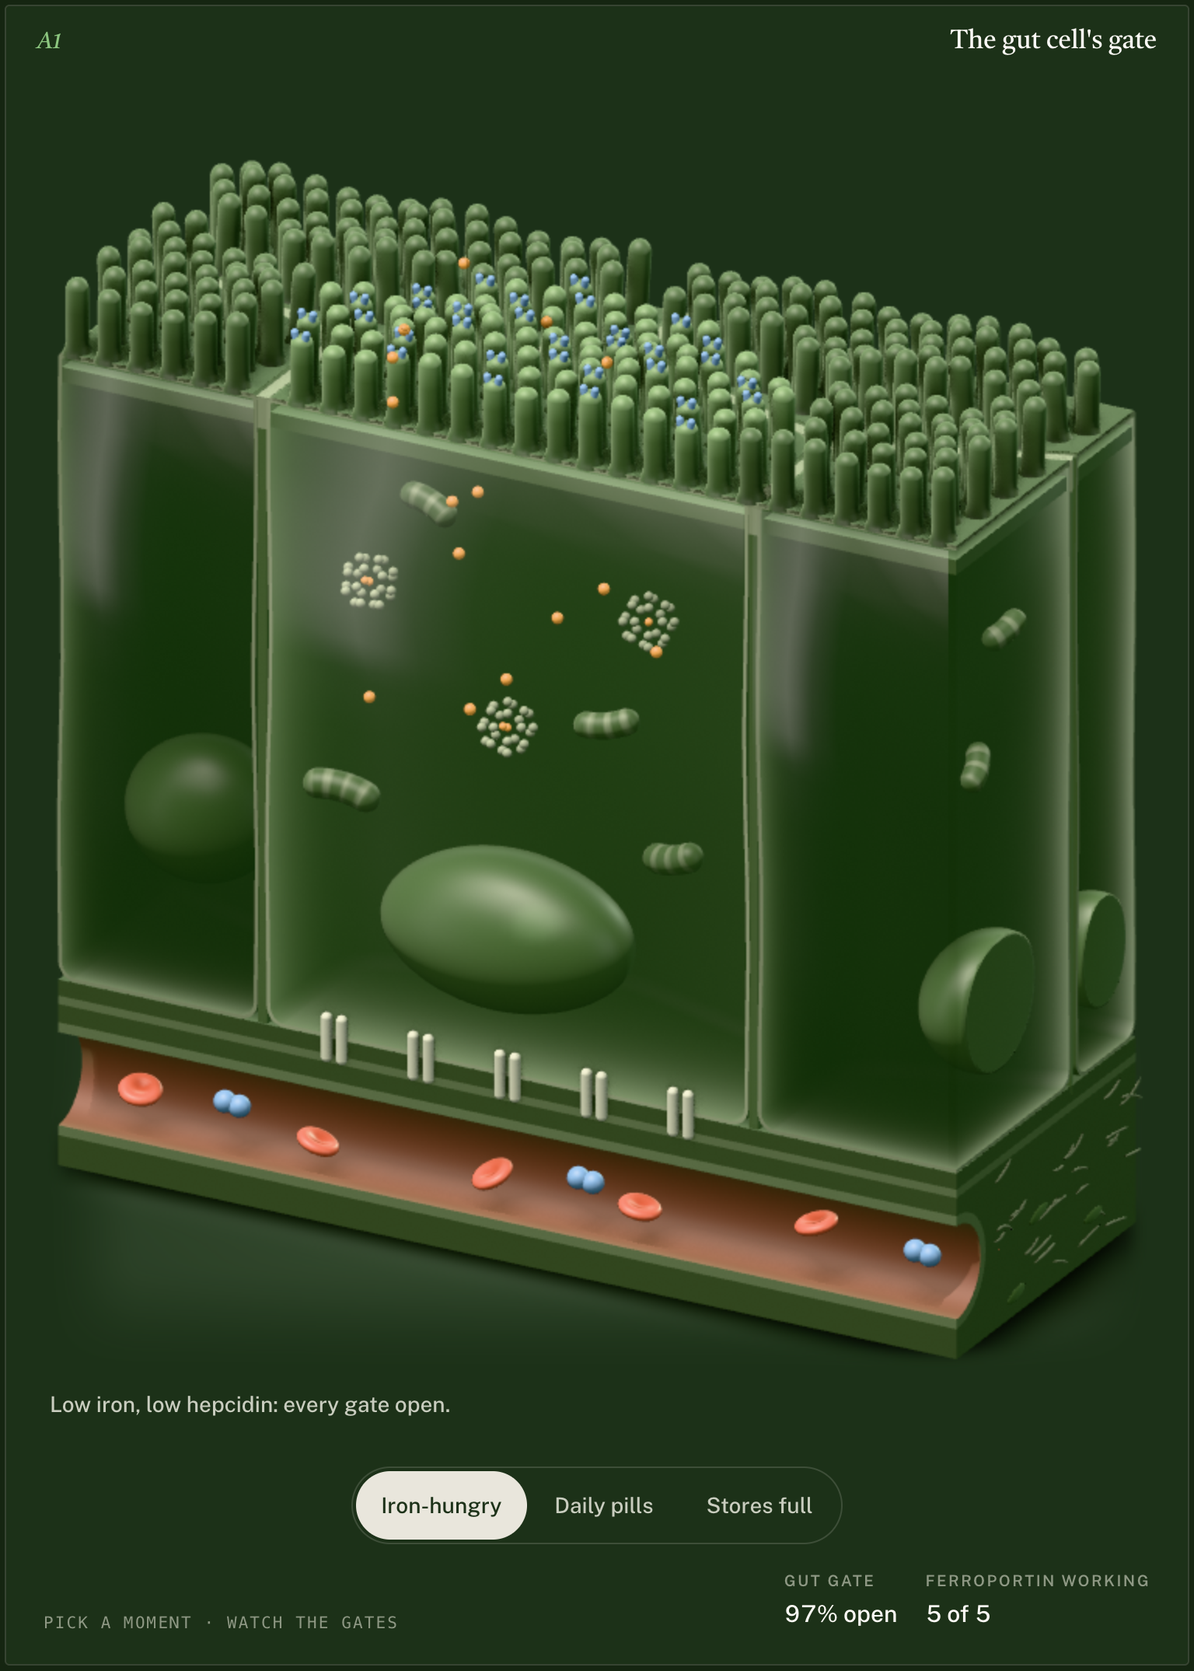
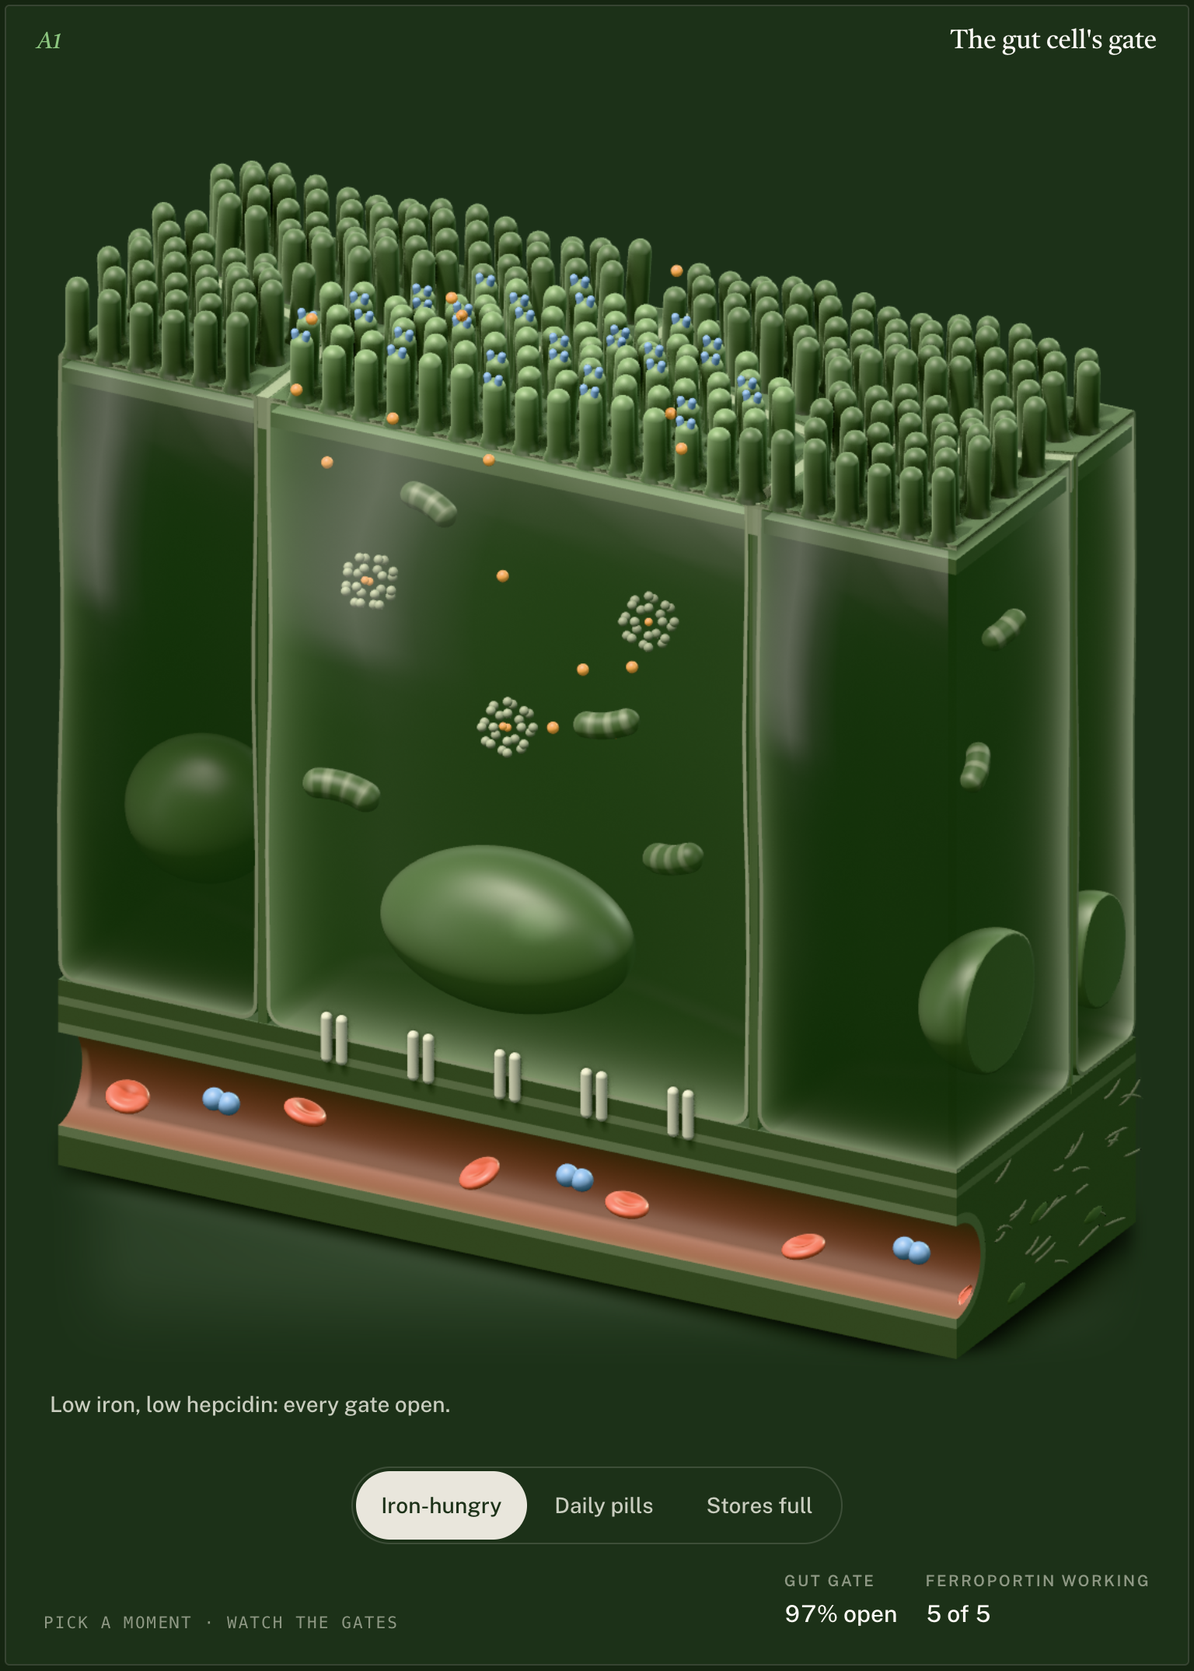
A1: more presence on Cream
On Cream the gel is the block's mid tone, deepening toward the base and
the end face, with a firmer membrane line and a firmer floor shadow; the
nucleus, mitochondria, ferritin cages and iron are lit against something
deeper; each microvillus has a toned shaft, a light tip and a shaded side.
Every colour is still one of the figure's inks or a blend of two. Forest
night, the model, numbers and words are unchanged.

diff --git a/figures/a1-gut-cell/gl-scene.js b/figures/a1-gut-cell/gl-scene.js
@@ -73,44 +73,74 @@ function a1Scene(ctx, DATA, pal) {
   };
   const K = {};
   for (const k of Object.keys(FALL)) K[k.replace(/^[ab]1-/, "").replace(/-/g, "_")] = ink(k);
-  // Rendered surfaces are lit, so the inks sit a little deeper than the flat fills (a lit cream reads as the drawing's cream).
-  const TONE = night ? 1.5 : 0.86;
-  const C = {
-    gel: gain(rich(K.cell, night ? 1 : 1.45), night ? 1.25 : 0.87),
-    gelDim: gain(rich(K.cell_dim, night ? 1 : 1.2), night ? 1.25 : 0.84),
-    wall: gain(blend(K.cell_2, K.lateral, 0.5), night ? 1.4 : 0.74),
-    wallDim: gain(blend(K.cell_dim, K.lateral, 0.6), night ? 1.3 : 0.72),
-    rim: gain(blend(K.membrane, K.cell, night ? 0.25 : 0.22), night ? 1.3 : 0.9),
-    rimDim: gain(blend(K.membrane, K.cell_dim, night ? 0.4 : 0.36), night ? 1.2 : 0.9),
-    lateral: gain(K.lateral, night ? 1.1 : 0.84),
-    junction: gain(blend(K.membrane, K.lateral, night ? 0.3 : 0.12), night ? 1.1 : 0.92),
-    top: gain(K.top, TONE),
-    topMain: gain(K.top_main, TONE),
-    web: gain(blend(K.cell_2, K.lateral, night ? 0.45 : 0.75), night ? 1.5 : 0.72),
-    webDim: gain(blend(K.cell_dim, K.lateral, night ? 0.5 : 0.7), night ? 1.35 : 0.72),
-    villusTip: gain(K.tip, night ? 1.7 : 0.86),
-    villus: gain(rich(K.v1, night ? 1 : 1.15), night ? 1.6 : 0.8),
-    villusRoot: gain(K.v2, night ? 1.5 : 0.72),
-    villusDim: gain(K.villus_dim, night ? 1.5 : 0.8),
-    nucleus: gain(rich(K.nucleus, night ? 1 : 1.3), night ? 1.5 : 0.68),
-    nucleolus: gain(K.nucleolus, night ? 1.5 : 0.5),
-    mito: gain(rich(blend(K.mito, K.nucleolus, night ? 0 : 0.55), night ? 1 : 1.35), night ? 1.55 : 0.68),
-    mitoBand: gain(blend(K.mito, K.membrane, 0.6), night ? 1.4 : 0.62),
-    ferritin: gain(K.ferritin, night ? 1.15 : 0.8),
-    tissue: gain(K.tissue, night ? 1.35 : 0.9),
-    lamina: gain(K.endo, night ? 1.3 : 0.86),
-    collagen: gain(blend(K.tissue, K.membrane, 0.5), night ? 1.3 : 0.9),
-    endo: gain(K.endo, night ? 1.4 : 0.9),
-    blood: gain(blend(K.blood, K.rbc, night ? 0.1 : 0.07), night ? 1.5 : 0.92),
-    iron: K.iron.clone(),
-    hep: K.hep.clone(),
-    fpn: K.fpn.clone(),
-    dmt1: K.dmt1.clone(),
-    tf: K.tf.clone(),
-    rbc: K.rbc.clone(),
-    rbcIn: K.rbc_in.clone(),
-    sheen: night ? new T.Color("#bfe0b4") : new T.Color("#fff1e2"),
-  };
+  // Rendered surfaces are lit, so the inks are re-toned per theme. Forest night: the dark fills lifted so light can
+  // model them. Cream: the gel is the mid tone of the block (the drawing's own deeper inks: top, lateral, membrane),
+  // so the block has a silhouette on the cream page and what floats in it is lit against something deeper, as it is
+  // in Forest night. Every colour is still one of the figure's inks, or a blend of two.
+  const C = night
+    ? {
+        gel: gain(K.cell, 1.25),
+        gelDim: gain(K.cell_dim, 1.25),
+        wall: gain(blend(K.cell_2, K.lateral, 0.5), 1.4),
+        wallDim: gain(blend(K.cell_dim, K.lateral, 0.6), 1.3),
+        rim: gain(blend(K.membrane, K.cell, 0.25), 1.3),
+        rimDim: gain(blend(K.membrane, K.cell_dim, 0.4), 1.2),
+        lateral: gain(K.lateral, 1.1),
+        junction: gain(blend(K.membrane, K.lateral, 0.3), 1.1),
+        top: gain(K.top, 1.5),
+        topMain: gain(K.top_main, 1.5),
+        web: gain(blend(K.cell_2, K.lateral, 0.45), 1.5),
+        webDim: gain(blend(K.cell_dim, K.lateral, 0.5), 1.35),
+        villusTip: gain(K.tip, 1.7),
+        villus: gain(K.v1, 1.6),
+        villusRoot: gain(K.v2, 1.5),
+        villusDim: gain(K.villus_dim, 1.5),
+        nucleus: gain(K.nucleus, 1.5),
+        nucleolus: gain(K.nucleolus, 1.5),
+        mito: gain(K.mito, 1.55),
+        mitoBand: gain(blend(K.mito, K.membrane, 0.6), 1.4),
+        ferritin: gain(K.ferritin, 1.15),
+        tissue: gain(K.tissue, 1.35),
+        lamina: gain(K.endo, 1.3),
+        collagen: gain(blend(K.tissue, K.membrane, 0.5), 1.3),
+        endo: gain(K.endo, 1.4),
+        blood: gain(blend(K.blood, K.rbc, 0.1), 1.5),
+        seat: gain(blend(K.membrane, K.cell, 0.45), 1.2),
+        iron: K.iron.clone(),
+        sheen: new T.Color("#bfe0b4"),
+      }
+    : {
+        gel: gain(rich(blend(K.cell, K.top_main, 0.72), 1.5), 0.95),
+        gelDim: gain(rich(blend(K.cell_dim, K.top, 0.6), 1.1), 0.93),
+        wall: gain(blend(K.top_main, K.membrane, 0.5), 0.7),
+        wallDim: gain(blend(K.lateral, K.membrane, 0.48), 0.72),
+        rim: gain(blend(K.membrane, K.top_main, 0.12), 0.8),
+        rimDim: gain(blend(K.membrane, K.lateral, 0.25), 0.82),
+        lateral: gain(K.lateral, 0.74),
+        junction: gain(K.membrane, 0.78),
+        top: gain(K.top, 0.6),
+        topMain: gain(rich(K.top_main, 1.15), 0.6),
+        web: gain(blend(K.top_main, K.membrane, 0.4), 0.76),
+        webDim: gain(blend(K.lateral, K.membrane, 0.35), 0.78),
+        villusTip: gain(rich(K.v0, 1.2), 0.98),
+        villus: gain(rich(K.v1, 2.1), 0.76),
+        villusRoot: gain(rich(K.v2, 1.9), 0.5),
+        villusDim: gain(rich(K.villus_dim, 1.1), 0.8),
+        nucleus: gain(rich(K.nucleus, 1.25), 0.98),
+        nucleolus: gain(rich(K.nucleolus, 1.3), 0.4),
+        mito: gain(rich(blend(K.mito, K.nucleolus, 0.6), 2.1), 0.84),
+        mitoBand: gain(rich(blend(K.nucleolus, K.membrane, 0.3), 1.6), 0.52),
+        ferritin: gain(K.ferritin, 0.62),
+        tissue: gain(blend(K.tissue, K.endo, 0.5), 0.84),
+        lamina: gain(blend(K.endo, K.membrane, 0.2), 0.72),
+        collagen: gain(blend(K.tissue, K.membrane, 0.6), 0.8),
+        endo: gain(K.endo, 0.78),
+        blood: gain(rich(blend(K.blood, K.rbc, 0.1), 1.15), 0.92),
+        seat: gain(blend(K.membrane, K.top_main, 0.3), 0.78),
+        iron: gain(K.iron, 0.9),
+        sheen: new T.Color("#fff1e2"),
+      };
+  Object.assign(C, { hep: K.hep.clone(), fpn: K.fpn.clone(), dmt1: K.dmt1.clone(), tf: K.tf.clone(), rbc: K.rbc.clone(), rbcIn: K.rbc_in.clone() });
 
   // ---------------------------------------------------------------- materials
   const mats = [];
@@ -126,10 +156,20 @@ function a1Scene(ctx, DATA, pal) {
     kit: { value: new T.Matrix4() },
     view: { value: new T.Vector3(VD[0], VD[1], VD[2]) },
     cut: { value: new T.Vector4(D, L, ZB, ZT) },
+    // in view space (x screen right, y up, z to the viewer): the block's own up, and the side the key light is on
+    up: { value: new T.Vector3(0, Math.cos(EL), Math.sin(EL)) },
+    key: { value: new T.Vector3(-0.62, 0.4, 0.68).normalize() },
   };
+  // Cream only. The studio there is bright all round, so forms are flat: `under` darkens what faces down, `side` what
+  // faces away from the key (the drawing shades its microvilli the same way, light on the left). And the gel deepens
+  // where the line of sight runs far, toward the base, and on the end face (the drawing's shaded side).
+  const GEL_TONE = night ? "" : "a1g *= mix( 1.0, 0.86, step( a1sx, a1sy ) ) * mix( 1.0, 0.9, 1.0 - exp( - 0.008 * a1s ) );\n";
+  const GEL_RISE = night ? "0.86 + 0.2" : "0.8 + 0.27";
   let gelN = 0;
-  function gel(m, { sigma = 0, color = C.gel, max = 0.94, attr = false, clip = false, fog = true, edge = 0 } = {}) {
+  function gel(m, { sigma = 0, color = C.gel, max = 0.94, attr = false, clip = false, fog = true, edge = 0, under = 0, side = 0 } = {}) {
+    const form = under || side;
     const u = { uA1Kit: U.kit, uA1View: U.view, uA1Cut: U.cut, uA1Gel: { value: new T.Vector4(color.r, color.g, color.b, max) }, uA1Sigma: { value: sigma } };
+    if (form) Object.assign(u, { uA1Up: U.up, uA1Key: U.key });
     m.userData.gel = u;
     m.onBeforeCompile = (sh) => {
       Object.assign(sh.uniforms, u);
@@ -140,33 +180,41 @@ function a1Scene(ctx, DATA, pal) {
           `#include <project_vertex>\n{ vec4 a1p = vec4( transformed, 1.0 );\n#ifdef USE_INSTANCING\na1p = instanceMatrix * a1p;\n#endif\nvA1Kit = ( uA1Kit * ( modelMatrix * a1p ) ).xyz; }\n${attr ? "vA1Fog = aFog;\n" : ""}`,
         );
       sh.fragmentShader = sh.fragmentShader
-        .replace("#include <common>", `#include <common>\nuniform vec3 uA1View;\nuniform vec4 uA1Cut;\nuniform vec4 uA1Gel;\nuniform float uA1Sigma;\nvarying vec3 vA1Kit;\n${attr ? "varying float vA1Fog;\n" : ""}`)
+        .replace("#include <common>", `#include <common>\nuniform vec3 uA1View;\nuniform vec4 uA1Cut;\nuniform vec4 uA1Gel;\nuniform float uA1Sigma;\nvarying vec3 vA1Kit;\n${attr ? "varying float vA1Fog;\n" : ""}${form ? "uniform vec3 uA1Up;\nuniform vec3 uA1Key;\n" : ""}`)
         .replace("#include <clipping_planes_fragment>", `${clip ? "if ( vA1Kit.x < 0.0 || vA1Kit.x > uA1Cut.y ) discard;\n" : ""}#include <clipping_planes_fragment>`)
         .replace(
           "#include <opaque_fragment>",
           `#include <opaque_fragment>\n${edge ? `gl_FragColor.rgb *= 1.0 - ${edge.toFixed(3)} * pow( 1.0 - saturate( dot( normal, normalize( vViewPosition ) ) ), 2.0 );\n` : ""}${
+            form
+              ? `gl_FragColor.rgb *= mix( ${(under || 1).toFixed(3)}, 1.0, smoothstep( -0.85, 0.45, dot( normal, uA1Up ) ) ) * mix( ${(side || 1).toFixed(3)}, 1.0, smoothstep( -0.35, 0.72, dot( normal, uA1Key ) ) );\n`
+              : ""
+          }${
             fog
-              ? `{ float a1s = max( min( ( uA1Cut.x - vA1Kit.y ) / uA1View.y, ( uA1Cut.y - vA1Kit.x ) / uA1View.x ), 0.0 );
+              ? `{ float a1sy = ( uA1Cut.x - vA1Kit.y ) / uA1View.y;
+float a1sx = ( uA1Cut.y - vA1Kit.x ) / uA1View.x;
+float a1s = max( min( a1sy, a1sx ), 0.0 );
 float a1in = step( uA1Cut.z, vA1Kit.z ) * step( vA1Kit.z, uA1Cut.w );
 float a1f = ( 1.0 - exp( - ${attr ? "vA1Fog" : "uA1Sigma"} * a1s ) ) * a1in * uA1Gel.a;
 vec3 a1e = vA1Kit + uA1View * a1s;
 float a1m = sin( a1e.x * 0.023 + a1e.y * 0.031 + 1.7 * sin( a1e.z * 0.017 ) ) * sin( a1e.z * 0.021 + 0.9 * sin( a1e.x * 0.019 + a1e.y * 0.013 ) );
-vec3 a1g = uA1Gel.rgb * ( 0.86 + 0.2 * smoothstep( uA1Cut.z, uA1Cut.w, a1e.z ) + 0.035 * a1m );
-gl_FragColor.rgb = mix( gl_FragColor.rgb, a1g, a1f ); }`
+vec3 a1g = uA1Gel.rgb * ( ${GEL_RISE} * smoothstep( uA1Cut.z, uA1Cut.w, a1e.z ) + 0.035 * a1m );
+${GEL_TONE}gl_FragColor.rgb = mix( gl_FragColor.rgb, a1g, a1f ); }`
               : ""
           }`,
         );
     };
-    const key = `a1gel${attr ? "a" : ""}${clip ? "c" : ""}${fog ? "f" : ""}${edge ? "e" : ""}${gelN++}`;
+    const key = `a1gel${attr ? "a" : ""}${clip ? "c" : ""}${fog ? "f" : ""}${edge ? "e" : ""}${form ? "s" : ""}${gelN++}`;
     m.customProgramCacheKey = () => key;
     return m;
   }
-  const SIG = night ? 0.0075 : 0.0068; // the traced cell: clear
-  const SIG_DIM = night ? 0.03 : 0.022; // its neighbours: milky
+  const SIG = night ? 0.0075 : 0.0058; // the traced cell: clear
+  const SIG_DIM = night ? 0.03 : 0.02; // its neighbours: milky
   // The cells' own inner walls veil faster than what floats in them, so a cut shows a body of gel with a soft edge
   // under the membrane, not the inside of an empty box.
-  const SIG_WALL = 0.024;
-  const SIG_WALL_DIM = 0.055;
+  const SIG_WALL = night ? 0.024 : 0.014;
+  const SIG_WALL_DIM = night ? 0.055 : 0.034;
+  /** Cream: form shading on a material that is not in the gel (night: the material as it is). */
+  const lit = (m, o) => (night ? m : gel(m, { fog: false, ...o }));
 
   // ---------------------------------------------------------------- geometry kit
   const SEG = coarse ? 0.6 : 1; // phones: about half the triangles
@@ -639,7 +687,7 @@ gl_FragColor.rgb = mix( gl_FragColor.rgb, a1g, a1f ); }`
     mesh.receiveShadow = false;
     scene.add(mesh);
   }
-  solid(soupTop.geometry(), flesh({ vertexColors: true, roughness: 0.62 }));
+  solid(soupTop.geometry(), flesh({ vertexColors: true, roughness: night ? 0.62 : 0.7 }));
   {
     const pos = [];
     const nor = [];
@@ -688,7 +736,7 @@ gl_FragColor.rgb = mix( gl_FragColor.rgb, a1g, a1f ); }`
   }
 
   // ---------------------------------------------------------------- inside the cells
-  const organelle = (sig = SIG, color = C.gel, o = {}) => gel(flesh({ vertexColors: true, roughness: 0.5, clearcoat: 0.3, ...o }), { sigma: sig, color, edge: 0.42 });
+  const organelle = (sig = SIG, color = C.gel, o = {}) => gel(flesh({ vertexColors: true, roughness: 0.5, clearcoat: night ? 0.3 : 0.4, ...o }), night ? { sigma: sig, color, edge: 0.42 } : { sigma: sig, color, edge: 0.5, under: 0.56, side: 0.86 });
   const matIn = organelle();
   const matInDim = organelle(SIG_DIM, C.gelDim);
   const withColor = (g, fn) => {
@@ -787,7 +835,7 @@ gl_FragColor.rgb = mix( gl_FragColor.rgb, a1g, a1f ); }`
     const q = new T.Quaternion().setFromUnitVectors(new T.Vector3(0, 1, 0), new T.Vector3(VD[0], VD[1], VD[2]));
     const turn = new T.Quaternion().setFromAxisAngle(new T.Vector3(VD[0], VD[1], VD[2]), 0.4);
     const RC = 14.6;
-    const cage = instanced(ballGeo(seg(12, 8), seg(8, 6)), gel(flesh({ color: C.ferritin, roughness: 0.5 }), { sigma: SIG, edge: 0.25 }), 24 * FCEN.length, { receive: false });
+    const cage = instanced(ballGeo(seg(12, 8), seg(8, 6)), gel(flesh({ color: C.ferritin, roughness: 0.5 }), night ? { sigma: SIG, edge: 0.25 } : { sigma: SIG * 0.8, edge: 0.3, under: 0.6 }), 24 * FCEN.length, { receive: false });
     const v3 = new T.Vector3();
     let k = 0;
     FCEN.forEach((c, j) => {
@@ -815,20 +863,22 @@ gl_FragColor.rgb = mix( gl_FragColor.rgb, a1g, a1f ); }`
   const VR = G.VILLI_R;
   {
     const HN = 44;
-    const prof = [[VR + 2.6, -2], [VR + 1.5, 0.3], [VR + 0.6, 2.2], [VR + 0.1, 5], [VR, 9], [VR, HN * 0.55], [VR, HN - VR]];
-    const nd = seg(5, 3);
+    // (Forest night keeps the mesh it shipped with; Cream's is a little lighter: it is drawn in every pass of the layer)
+    const prof = night ? [[VR + 2.6, -2], [VR + 1.5, 0.3], [VR + 0.6, 2.2], [VR + 0.1, 5], [VR, 9], [VR, HN * 0.55], [VR, HN - VR]] : [[VR + 2.6, -2], [VR + 1.2, 0.8], [VR + 0.2, 3.6], [VR, 9], [VR, HN * 0.55], [VR, HN - VR]];
+    const nd = seg(night ? 5 : 4, 3);
     for (let i = 1; i < nd; i++) prof.push([VR * Math.cos((i / nd) * (Math.PI / 2)), HN - VR + VR * Math.sin((i / nd) * (Math.PI / 2))]);
     prof.push([0, HN]);
-    const d = latheData(prof, seg(14, 8));
+    const d = latheData(prof, seg(night ? 14 : 12, 8));
     const g = withColor(smoothGeo(d.pos, d.idx), (x, y, z) => {
       const t = clamp(z / HN, 0, 1);
-      return t < 0.5 ? blend(C.villusRoot, C.villus, sstep(0, 0.5, t)) : blend(C.villus, C.villusTip, sstep(0.5, 1, t));
+      if (night) return t < 0.5 ? blend(C.villusRoot, C.villus, sstep(0, 0.5, t)) : blend(C.villus, C.villusTip, sstep(0.5, 1, t));
+      return t < 0.42 ? blend(C.villusRoot, C.villus, sstep(0, 0.42, t)) : blend(C.villus, C.villusTip, sstep(0.66, 1, t)); // Cream: a shaft of tone under a light tip
     });
     const list = [];
     for (const [x, h, main] of G.villiFront) list.push({ p: [x - X0, D - VR, ZT], h: h - 4, main, dmt: DATA.DMT1.some((q) => Math.abs(q[0] - x) < 0.5), q: QI });
     for (const [x, v, h, main, dmt] of G.forest) if (v < D - 14) list.push({ p: [x - X0, v, ZT], h: h + 6, main, dmt, q: new T.Quaternion().setFromEuler(new T.Euler((rnd() - 0.5) * 0.11, (rnd() - 0.5) * 0.11, 0)) });
-    const villi = instanced(g, flesh({ vertexColors: true, roughness: 0.52, clearcoat: 0.26, clearcoatRoughness: 0.36, sheen: 0.7 }), list.length);
-    const dimK = new T.Color(C.villusDim.r / C.villus.r, C.villusDim.g / C.villus.g, C.villusDim.b / C.villus.b).multiplyScalar(night ? 0.8 : 0.97);
+    const villi = instanced(g, lit(flesh({ vertexColors: true, roughness: night ? 0.52 : 0.46, clearcoat: night ? 0.26 : 0.34, clearcoatRoughness: 0.36, sheen: 0.7 }), { under: 0.55, side: 0.5, edge: 0.25 }), list.length);
+    const dimK = night ? new T.Color(C.villusDim.r / C.villus.r, C.villusDim.g / C.villus.g, C.villusDim.b / C.villus.b).multiplyScalar(0.8) : new T.Color(0.93, 0.925, 0.92);
     const white = new T.Color(1, 1, 1);
     list.forEach((v, i) => {
       put(villi, i, v.p, 1, 1, v.h / HN, v.q);
@@ -921,7 +971,7 @@ gl_FragColor.rgb = mix( gl_FragColor.rgb, a1g, a1f ); }`
   // ---------------------------------------------------------------- what the model moves
   // iron: one bead, drawn wherever the model has one (lumen, cell, blood), on transferrin and in the ferritin cores
   const IRON_MAX = 220;
-  const irons = instanced(ballGeo(seg(14, 8), seg(9, 6)), gel(phys({ color: C.iron, roughness: 0.32, clearcoat: 0.7, clearcoatRoughness: 0.2, emissive: C.iron, emissiveIntensity: night ? 0.22 : 0.1 }), { sigma: SIG * 0.45, clip: true }), IRON_MAX, { dynamic: true, cast: false, receive: false, ghost: true });
+  const irons = instanced(ballGeo(seg(14, 8), seg(9, 6)), gel(phys({ color: C.iron, roughness: 0.32, clearcoat: 0.7, clearcoatRoughness: 0.2, emissive: C.iron, emissiveIntensity: night ? 0.22 : 0.06 }), night ? { sigma: SIG * 0.45, clip: true } : { sigma: SIG * 0.35, clip: true, under: 0.72 }), IRON_MAX, { dynamic: true, cast: false, receive: false, ghost: true });
   // the blood: red cells (true biconcave discs) and transferrin, two lobes with an iron site each
   const RBC_R = 12.5;
   const rbcGeo = (() => {
@@ -980,7 +1030,7 @@ gl_FragColor.rgb = mix( gl_FragColor.rgb, a1g, a1f ); }`
     return { pair, ves, vm };
   });
   // where a gate has been taken in: an empty seat in the membrane
-  const seats = instanced(ballGeo(seg(12, 8), seg(8, 6)), flesh({ color: gain(blend(K.membrane, K.cell, night ? 0.45 : 0.3), night ? 1.2 : 0.9), roughness: 0.6 }), DATA.FPN.length, { dynamic: true, cast: false, receive: false });
+  const seats = instanced(ballGeo(seg(12, 8), seg(8, 6)), flesh({ color: C.seat, roughness: 0.6 }), DATA.FPN.length, { dynamic: true, cast: false, receive: false });
 
   // ---------------------------------------------------------------- one frame, from the model's state
   const depth = new WeakMap();

diff --git a/figures/a1-gut-cell/live.js b/figures/a1-gut-cell/live.js
@@ -21,7 +21,8 @@ function mount(fig) {
   // steps aside (data-gl3-hide) and is not redrawn.
   const inks = getComputedStyle(svg);
   const pal = Object.fromEntries(A1_INKS.map((k) => [k, inks.getPropertyValue(`--${k}`).trim()]));
-  const gl = gl3Attach(fig, { scene: DATA.gl3, P: DATA.P, W: DATA.VW, H: DATA.VH, file: DATA.gl3.file, v: DATA.gl3.v, island: false, redraw: () => draw(), build: (ctx) => a1Scene(ctx, DATA, pal) });
+  const cream = (svg.closest("[data-theme]") || fig).getAttribute("data-theme") === "light";
+  const gl = gl3Attach(fig, { scene: cream ? { ...DATA.gl3, look: DATA.gl3.lookCream } : DATA.gl3, P: DATA.P, W: DATA.VW, H: DATA.VH, file: DATA.gl3.file, v: DATA.gl3.v, island: false, redraw: () => draw(), build: (ctx) => a1Scene(ctx, DATA, pal) });
 
   // ---------------------------------------------------------------- state
   let sceneAt = 0;

diff --git a/figures/a1-gut-cell/NOTES.md b/figures/a1-gut-cell/NOTES.md
@@ -76,9 +76,21 @@ With the shared WebGL layer on (`shared/gl3`), the block is rendered as a 3-D mo
 - its `stats()` reports the last pass only (1 call, 1 triangle), so the counts above were taken in the scene;
 - there is no clipping-plane switch, so parts that leave the block's ends are cut in their own shader.
 
-## Verification (2026-11-11, 3-D layer, local)
+### Round 3b (2026-11-12): Cream with presence
 
-- `node scripts/verify.mjs a1-gut-cell`: passed (line check on the drawing with `?gl=off`: 0).
+Review: on Cream the block was pale cream gel on a cream page and lost the drawing's definition. Cream only: Forest night, the model, numbers, words and controls are untouched (every Cream value sits behind `night ? … : …` in `gl-scene.js`, Forest night's mesh and shaders are the ones it shipped with, and `look` is picked by theme in `live.js` because one embed script serves both).
+
+- **The gel is the block's mid tone.** It moves from the cell ink toward the drawing's own deeper inks (top, lateral, membrane): honey for the traced cell, a greyer tan for its neighbours. It deepens toward the base, where the line of sight runs far, and on the end face (the drawing shades that side too). The inner walls are deeper still and veil more slowly, so every cut face has a soft deeper edge under a firmer membrane line.
+- **What floats in it is lit against something deeper**, as in Forest night: an ivory nucleus with a darker nucleolus, golden banded mitochondria, grey-brown ferritin cages round rust cores, rust iron beads that veil less, the forest gates. Two small terms in the material give them form the bright Cream studio doesn't: surfaces facing down and away from the key are darkened (the drawing shades its microvilli the same way, light on the left).
+- **Brush border:** each microvillus has a toned shaft, a light tip and a shaded side, over a deeper apical surface, so the carpet reads as separate microvilli with light on them. The neighbours' are a little cooler.
+- **Under the block:** a firmer floor shadow (`lookCream`: cast 2.3, contact 1.45, occlusion 1.2).
+- The capillary, red cells, transferrin, hepcidin and gates keep their colours.
+
+**Cost now** (`stage.__gl3.stats()` counts all of the layer's passes since the Nov 11 chunk): about 100 draw calls and about 505 k triangles a frame on Cream desktop (628 k in Forest night, whose microvilli keep the heavier mesh they shipped with), of which roughly 150 k are the picture itself.
+
+## Verification (2026-11-12, 3-D layer, local)
+
+- `node scripts/verify.mjs a1-gut-cell`: passed after round 3b (line check on the drawing with `?gl=off`: 0).
 - Layer off against the page before this round: identical pixels in both themes (moving parts hidden for the comparison).
 - Embed (`embed/test.html`): the layer loads from beside the embed script.
 
